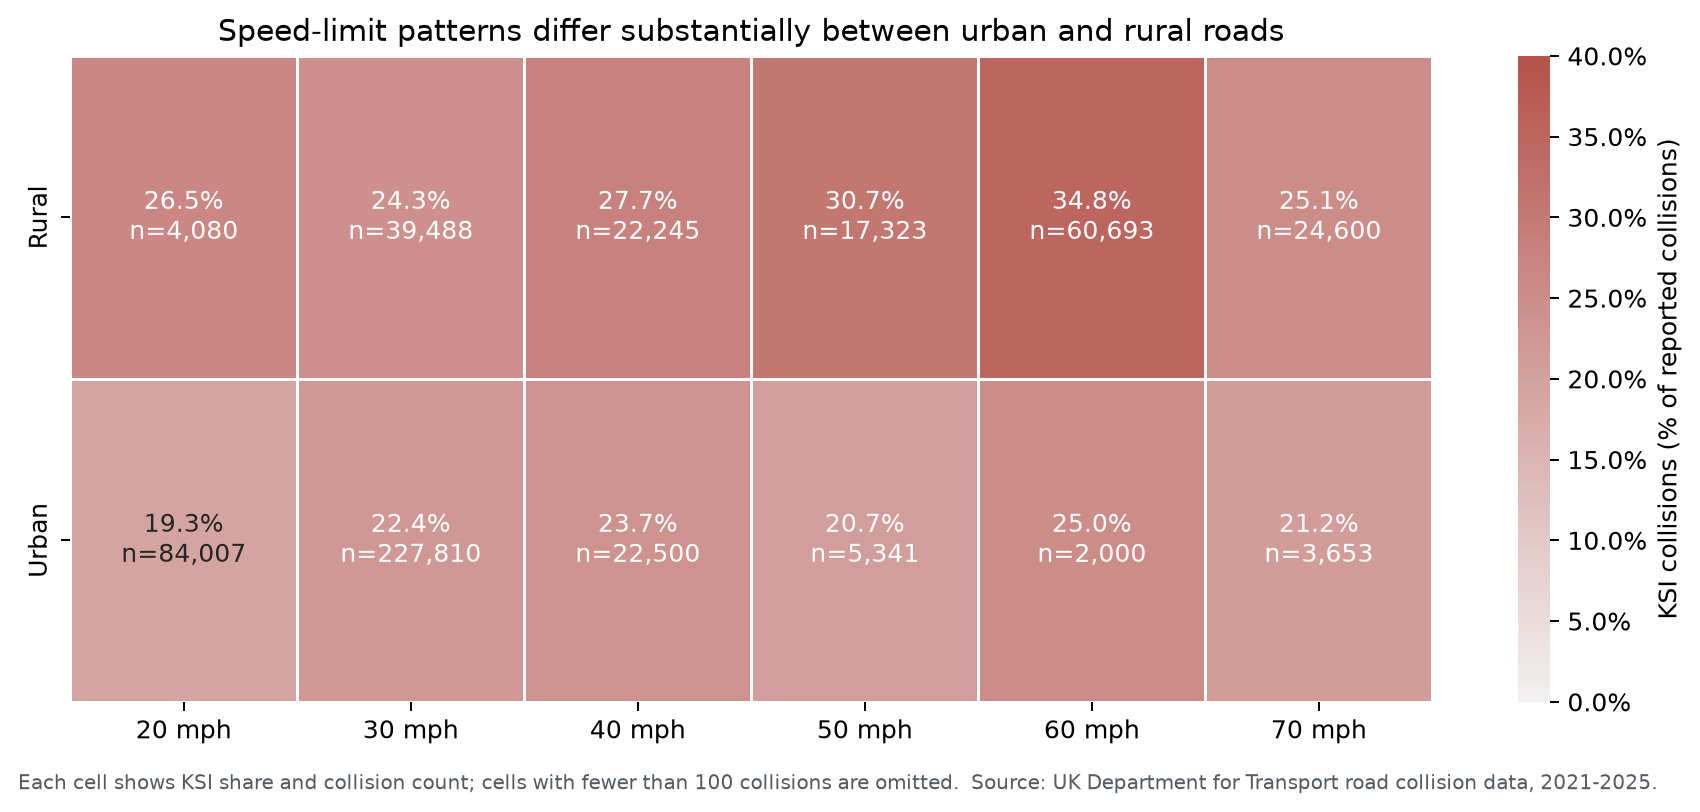
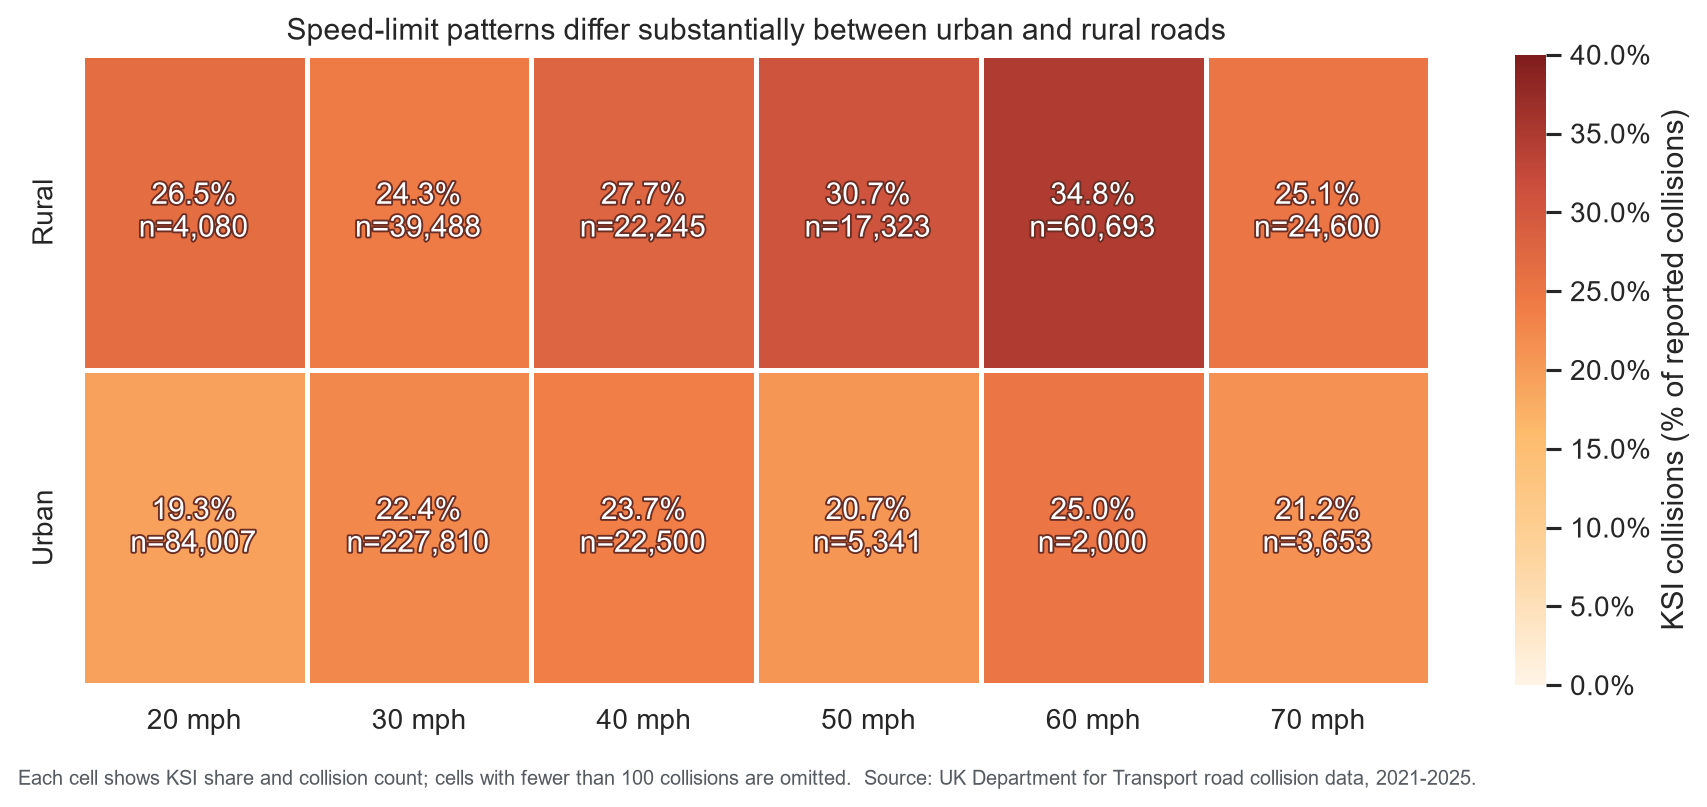
Improve course report visualisations

diff --git a/src/road_severity/processed_analysis.py b/src/road_severity/processed_analysis.py
@@ -11,6 +11,7 @@ from __future__ import annotations
 from pathlib import Path
 
 import matplotlib.colors as mcolors
+import matplotlib.patheffects as patheffects
 import matplotlib.pyplot as plt
 from matplotlib.ticker import LinearLocator, PercentFormatter
 import numpy as np
@@ -285,7 +286,13 @@ def cross_summary(frame: pd.DataFrame, row: str, column: str, row_labels: dict, 
     return grouped
 
 
-def plot_heatmap(summary: pd.DataFrame, path: Path, title: str, base_color: str = ACCENT) -> None:
+def plot_heatmap(
+    summary: pd.DataFrame,
+    path: Path,
+    title: str,
+    base_color: str = ACCENT,
+    high_contrast: bool = False,
+) -> None:
     '''Render a naturally ordered, annotated sequential heatmap.'''
     rates = summary.pivot(index="row_label", columns="column_label", values="ksi_rate")
     counts = summary.pivot(index="row_label", columns="column_label", values="collisions")
@@ -295,57 +302,88 @@ def plot_heatmap(summary: pd.DataFrame, path: Path, title: str, base_color: str 
             rate, count = rates.loc[row, column], counts.loc[row, column]
             annotations.loc[row, column] = "" if pd.isna(rate) else f"{rate:.1%}\nn={int(count):,}"
     fig, ax = plt.subplots(figsize=(10, max(4.5, 0.75 * len(rates))))
-    cmap = sns.light_palette(base_color, as_cmap=True)
-    sns.heatmap(rates, annot=annotations, fmt="", cmap=cmap, vmin=0, vmax=KSI_AXIS_MAX,
-                linewidths=1, linecolor="white", cbar_kws={"label": "KSI collisions (% of reported collisions)"}, ax=ax)
+    if high_contrast:
+        cmap = mcolors.LinearSegmentedColormap.from_list(
+            "ksi_orange_red",
+            ["#FFF4E6", "#FDD49E", "#FDBB6C", "#F07C45", "#C94C3C", "#7F1D1D"],
+            N=256,
+        )
+        sns.heatmap(
+            rates, annot=annotations, fmt="", cmap=cmap, vmin=0, vmax=KSI_AXIS_MAX,
+            linewidths=2, linecolor="white",
+            cbar_kws={"label": "KSI collisions (% of reported collisions)"}, ax=ax,
+        )
+    else:
+        cmap = sns.light_palette(base_color, as_cmap=True)
+        sns.heatmap(
+            rates, annot=annotations, fmt="", cmap=cmap, vmin=0, vmax=KSI_AXIS_MAX,
+            linewidths=1, linecolor="white",
+            cbar_kws={"label": "KSI collisions (% of reported collisions)"}, ax=ax,
+        )
+    if high_contrast:
+        for text in ax.texts:
+            text.set_color("white")
+            text.set_path_effects(
+                [patheffects.withStroke(linewidth=1.5, foreground="#6B2E25")]
+            )
     ax.set(title=title, xlabel="", ylabel="")
     ax.collections[0].colorbar.ax.yaxis.set_major_formatter(PercentFormatter(1))
     _save(fig, path, "Each cell shows KSI share and collision count; cells with fewer than 100 collisions are omitted.")
 
 def plot_spatial_hex(frame: pd.DataFrame, path: Path, table_path: Path) -> None:
-    '''Overlay collision density and sample-filtered KSI share on one spatial view.'''
+    '''Compare collision density and sample-filtered KSI share in aligned panels.'''
     geo = frame.dropna(subset=["longitude", "latitude", "ksi"])
     extent = [geo["longitude"].min(), geo["longitude"].max(), geo["latitude"].min(), geo["latitude"].max()]
-    fig = plt.figure(figsize=(9.2, 8.5))
-    grid = fig.add_gridspec(1, 2, width_ratios=[1, 0.075], wspace=0.18)
-    ax = fig.add_subplot(grid[0, 0])
-    colorbar_grid = grid[0, 1].subgridspec(2, 1, hspace=0.38)
-    count_cax = fig.add_subplot(colorbar_grid[0, 0])
-    rate_cax = fig.add_subplot(colorbar_grid[1, 0])
-    counts = ax.hexbin(
-        geo["longitude"], geo["latitude"], gridsize=48, mincnt=1, bins="log",
-        extent=extent, cmap="Greys", alpha=0.72,
+    fig, (count_ax, rate_ax) = plt.subplots(
+        1, 2, figsize=(12, 7.2), sharex=True, sharey=True
     )
-    rates = ax.hexbin(
+    counts = count_ax.hexbin(
+        geo["longitude"], geo["latitude"], gridsize=48, mincnt=1, bins="log",
+        extent=extent, cmap="Greys", linewidths=0.15, edgecolors="white",
+    )
+    rate_cmap = mcolors.LinearSegmentedColormap.from_list(
+        "ksi_spatial_red", ["#F7E4E1", "#D98B83", "#B5524B", "#762521"], N=256
+    )
+    rates = rate_ax.hexbin(
         geo["longitude"], geo["latitude"], C=geo["ksi"],
         reduce_C_function=np.mean, gridsize=48, mincnt=SPATIAL_MIN_COLLISIONS,
-        extent=extent, alpha=0,
+        extent=extent, cmap=rate_cmap, linewidths=0.25, edgecolors="white",
     )
     rate_offsets = rates.get_offsets().copy()
     rate_values = rates.get_array().copy()
-    rates.remove()
-    severity = ax.scatter(
-        rate_offsets[:, 0], rate_offsets[:, 1], c=rate_values,
-        cmap=sns.light_palette(HEAT_RED, as_cmap=True),
-        vmin=float(rate_values.min()), vmax=float(rate_values.max()),
-        marker="h", s=29, linewidths=0.25, edgecolors="white", alpha=0.92,
+    fig.suptitle(
+        "Collision density and severity hotspots show different spatial patterns",
+        fontsize=14,
     )
-    ax.set(
-        title="Severity hotspots do not simply follow collision density",
-        xlabel="Longitude", ylabel="Latitude",
+    count_ax.set(title="Collision density", xlabel="Longitude", ylabel="Latitude")
+    rate_ax.set(
+        title=f"KSI share (hexagons with n >= {SPATIAL_MIN_COLLISIONS})",
+        xlabel="Longitude",
+        ylabel="",
     )
-    ax.set_aspect(1 / np.cos(np.deg2rad(geo["latitude"].mean())))
-    count_bar = fig.colorbar(counts, cax=count_cax)
-    count_cax.set_title("Collision\ncount", fontsize=9, color=DARK_GREY, pad=8)
-    count_bar.set_label("Log scale", fontsize=8, color=DARK_GREY)
-    rate_bar = fig.colorbar(severity, cax=rate_cax)
-    rate_cax.set_title("KSI share\n(n >= 200)", fontsize=9, color=HEAT_RED, pad=8)
-    rate_bar.ax.yaxis.set_major_formatter(PercentFormatter(1))
+    map_aspect = 1 / np.cos(np.deg2rad(geo["latitude"].mean()))
+    for axis in (count_ax, rate_ax):
+        axis.set_aspect(map_aspect)
+        axis.set_xlim(extent[0], extent[1])
+        axis.set_ylim(extent[2], extent[3])
+    count_bar = fig.colorbar(
+        counts, ax=count_ax, orientation="horizontal", pad=0.08,
+        fraction=0.045, aspect=30,
+    )
+    count_bar.set_label("Collision count (log scale)", color=DARK_GREY)
+    rate_bar = fig.colorbar(
+        rates, ax=rate_ax, orientation="horizontal", pad=0.08,
+        fraction=0.045, aspect=30,
+    )
+    rate_bar.set_label(
+        f"KSI collisions (% of reported collisions; n >= {SPATIAL_MIN_COLLISIONS})",
+        color=DARK_GREY,
+    )
+    rate_bar.ax.xaxis.set_major_formatter(PercentFormatter(1))
     _save(
         fig, path,
-        f"Grey hexagons show collision density; red hexagons show KSI share where at least {SPATIAL_MIN_COLLISIONS} collisions were recorded. "
+        f"Panels use the same extent and hexagon grid; KSI share is shown only where at least {SPATIAL_MIN_COLLISIONS} collisions were recorded. "
         "Results are not adjusted for traffic exposure or population.",
-        apply_tight_layout=False,
     )
 
     count_table = pd.DataFrame(counts.get_offsets(), columns=["longitude", "latitude"])
@@ -391,6 +429,7 @@ def create_all_figures(frame: pd.DataFrame, tables: dict[str, pd.DataFrame], fig
         speed_area, figure_dir / "17_speed_by_area_heatmap.png",
         "Speed-limit patterns differ substantially between urban and rural roads",
         base_color=HEAT_RED,
+        high_contrast=True,
     )
 
     periods = pd.cut(frame["hour"], bins=[-1, 5, 9, 15, 19, 23], labels=["00-05", "06-09", "10-15", "16-19", "20-23"])

diff --git a/src/road_severity/model_comparison_visualisation.py b/src/road_severity/model_comparison_visualisation.py
@@ -56,6 +56,7 @@ def create_model_comparison_figures(
     y_valid: pd.Series,
     probability_map: dict,
     out_dir: str | Path,
+    ranking_only: bool = False,
 ) -> None:
     '''Generate ranking, PR-curve, and performance/time comparisons.'''
     out_dir = Path(out_dir)
@@ -65,30 +66,34 @@ def create_model_comparison_figures(
 
     ordered = comparison.sort_values('average_precision').copy()
     ordered['label'] = ordered['model'].map(LABELS)
-    fig, axes = plt.subplots(1, 2, figsize=(11, 5.4))
-    axes[0].barh(
+    fig, ax = plt.subplots(figsize=(10.5, 5.8))
+    runner_up = comparison.sort_values('average_precision', ascending=False).iloc[1]['model']
+    highlight_colors = {best: ACCENT, runner_up: '#79A9BD'}
+    ax.barh(
         ordered['label'], ordered['average_precision'],
-        color=[COLORS[name] if name == best else GREY for name in ordered['model']],
+        color=[highlight_colors.get(name, GREY) for name in ordered['model']],
+        height=0.64,
     )
     for y_pos, value in enumerate(ordered['average_precision']):
-        axes[0].text(value + 0.004, y_pos, f'{value:.3f}', va='center', fontsize=9)
-    axes[0].set(title='Ranking quality: higher is better',
-                xlabel='Validation average precision', ylabel='')
-    axes[0].xaxis.set_major_formatter(PercentFormatter(1))
-
-    calibrated = comparison.sort_values('brier_score', ascending=False).copy()
-    calibrated['label'] = calibrated['model'].map(LABELS)
-    axes[1].barh(
-        calibrated['label'], calibrated['brier_score'],
-        color=[COLORS[name] if name == best else GREY for name in calibrated['model']],
+        ax.text(value + 0.004, y_pos, f'{value:.4f}', va='center', fontsize=11,
+                color=DARK_GREY)
+    best_row = comparison.loc[comparison['model'] == best].iloc[0]
+    runner_up_row = comparison.loc[comparison['model'] == runner_up].iloc[0]
+    gap = best_row['average_precision'] - runner_up_row['average_precision']
+    speedup = runner_up_row['training_seconds'] / best_row['training_seconds']
+    ax.set(
+        title=(
+            f'{LABELS[best]} and {LABELS[runner_up]} are effectively tied on validation ranking\n'
+            f'AP gap {gap:.4f}; {LABELS[best]} trained {speedup:.1f}x faster'
+        ),
+        xlabel='Validation average precision (higher is better)', ylabel='',
+        xlim=(0, max(ordered['average_precision']) * 1.18),
     )
-    for y_pos, value in enumerate(calibrated['brier_score']):
-        axes[1].text(value + 0.002, y_pos, f'{value:.3f}', va='center', fontsize=9)
-    axes[1].set(title='Probability error: lower is better',
-                xlabel='Validation Brier score', ylabel='')
-    axes[1].xaxis.set_major_formatter(PercentFormatter(1))
-    fig.suptitle(f'{LABELS[best]} provides the strongest validation ranking', fontsize=14)
+    ax.xaxis.set_major_formatter(PercentFormatter(1))
+    ax.grid(axis='y', visible=False)
     _save(fig, out_dir / 'model_validation_comparison.png')
+    if ranking_only:
+        return
 
     fig, ax = plt.subplots(figsize=(7.4, 5.6))
     for model_name in comparison.sort_values('average_precision')['model']:
